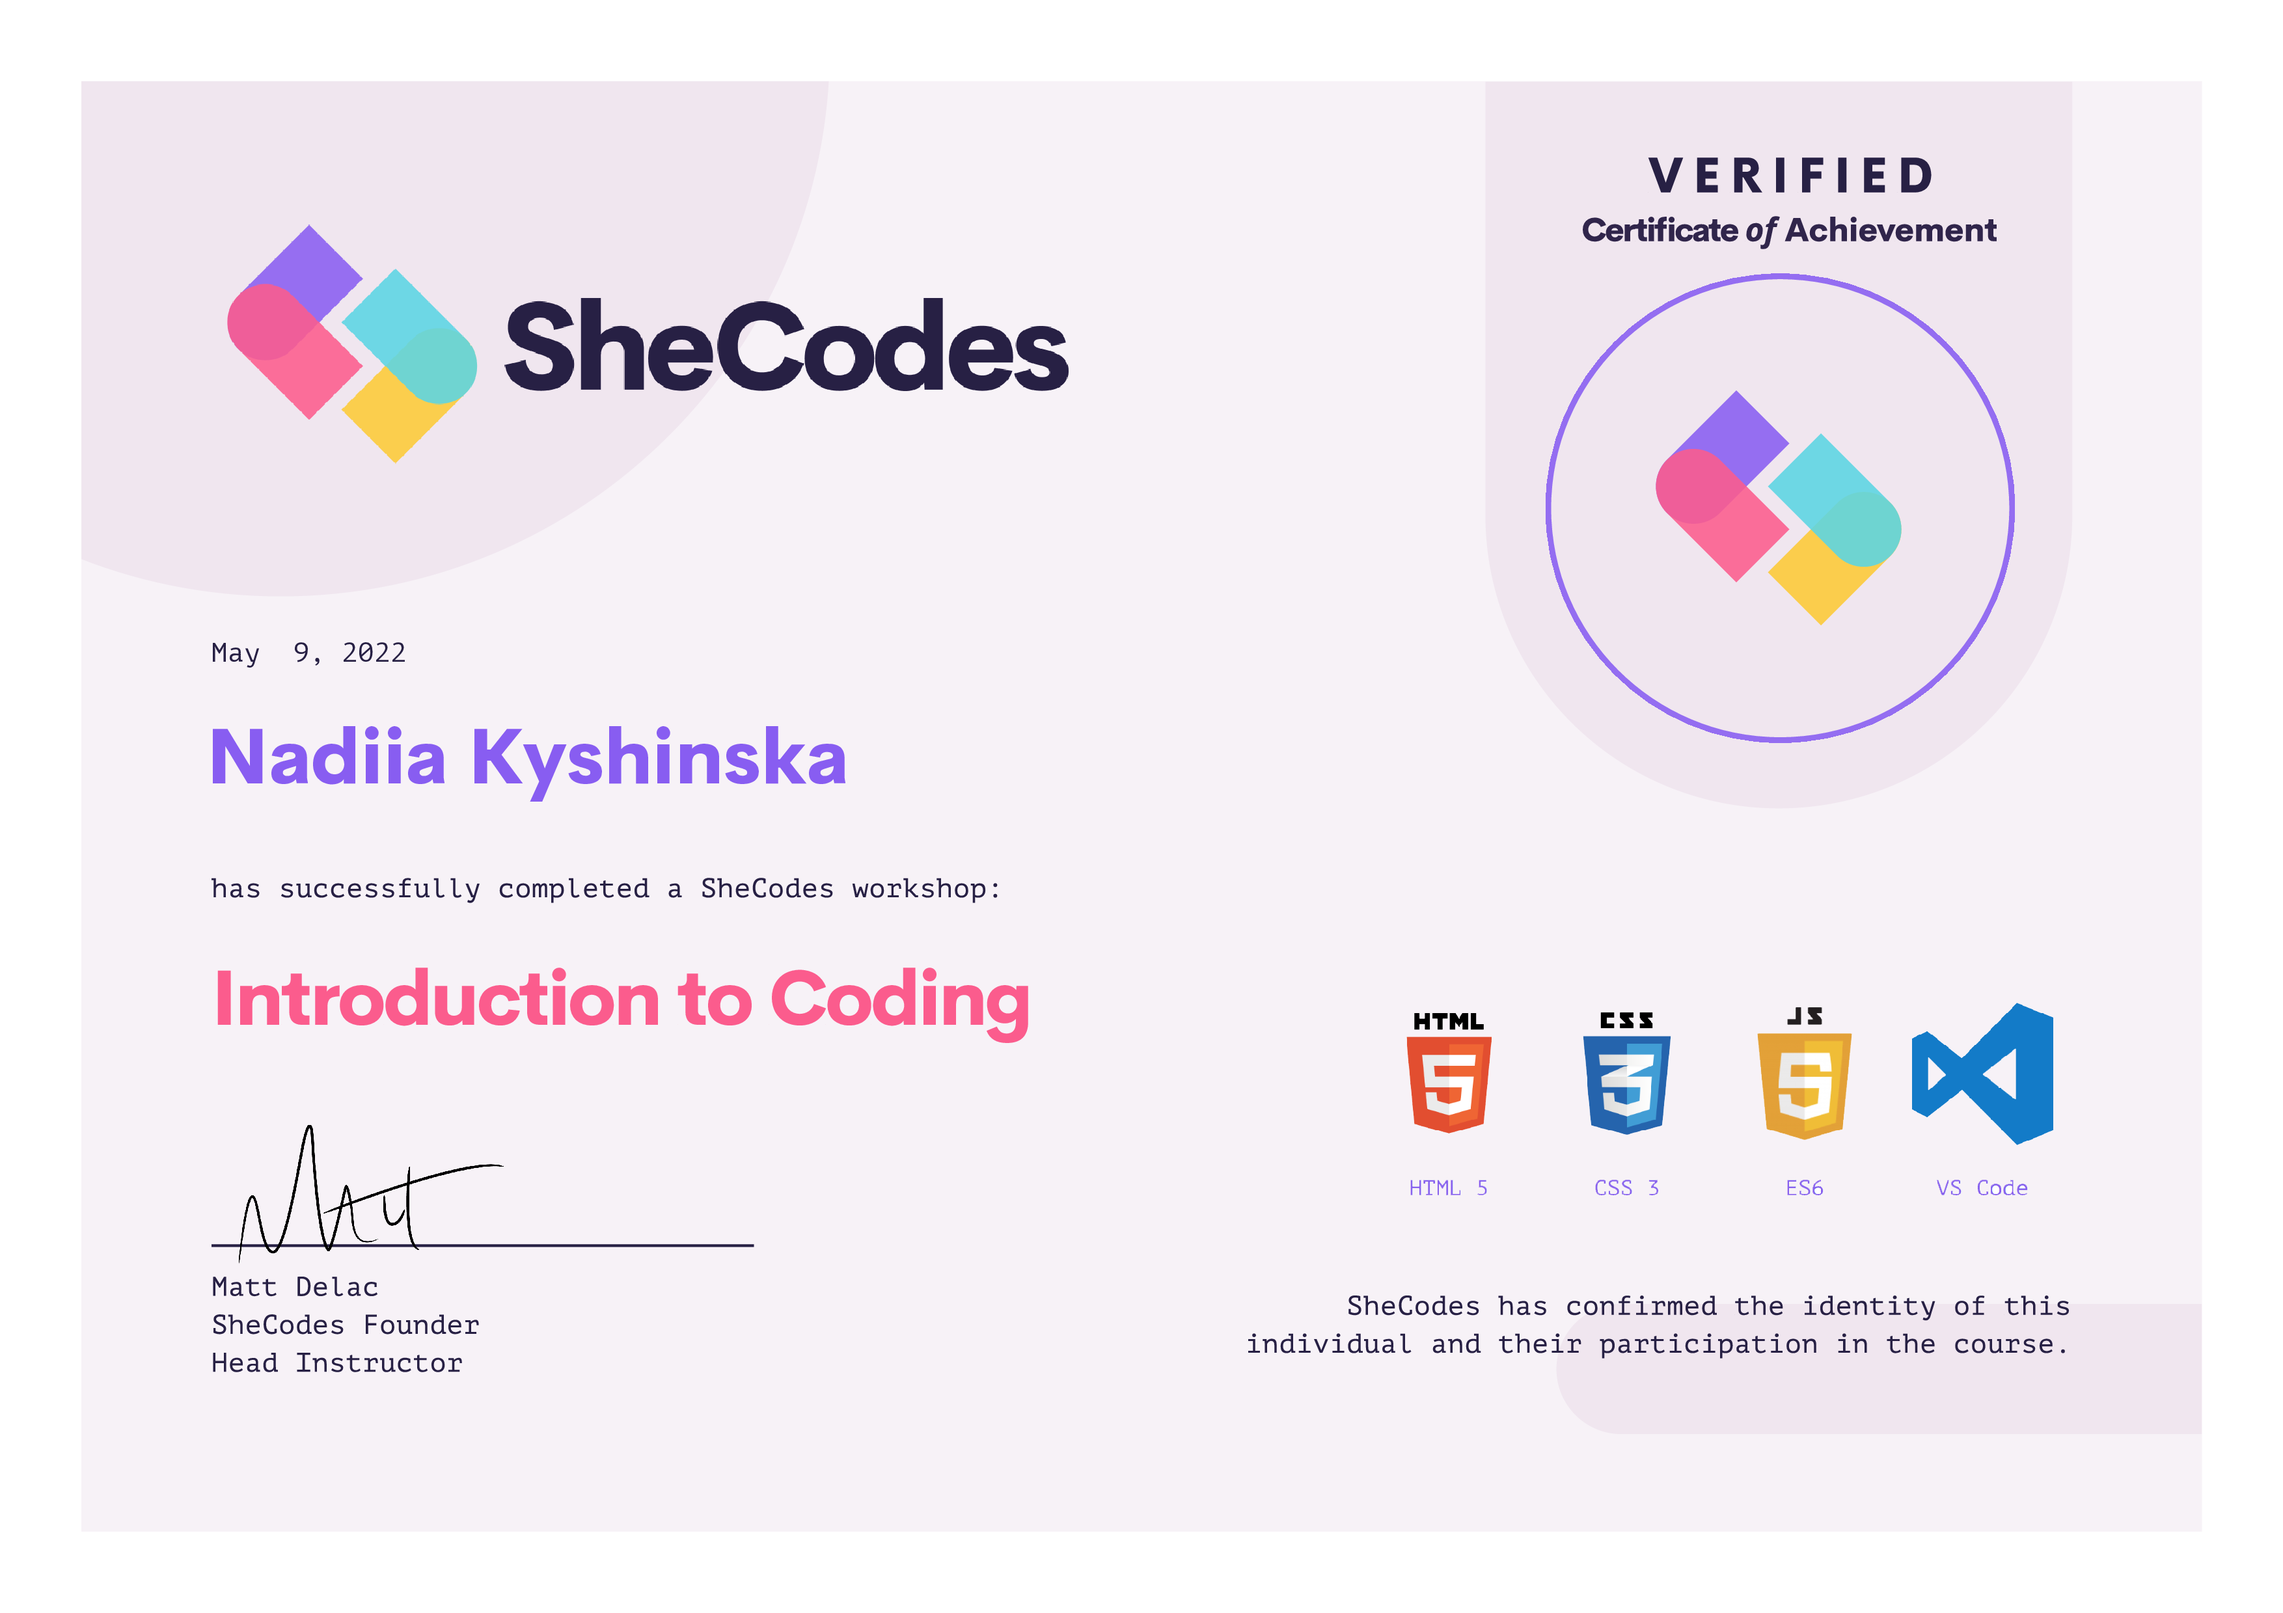
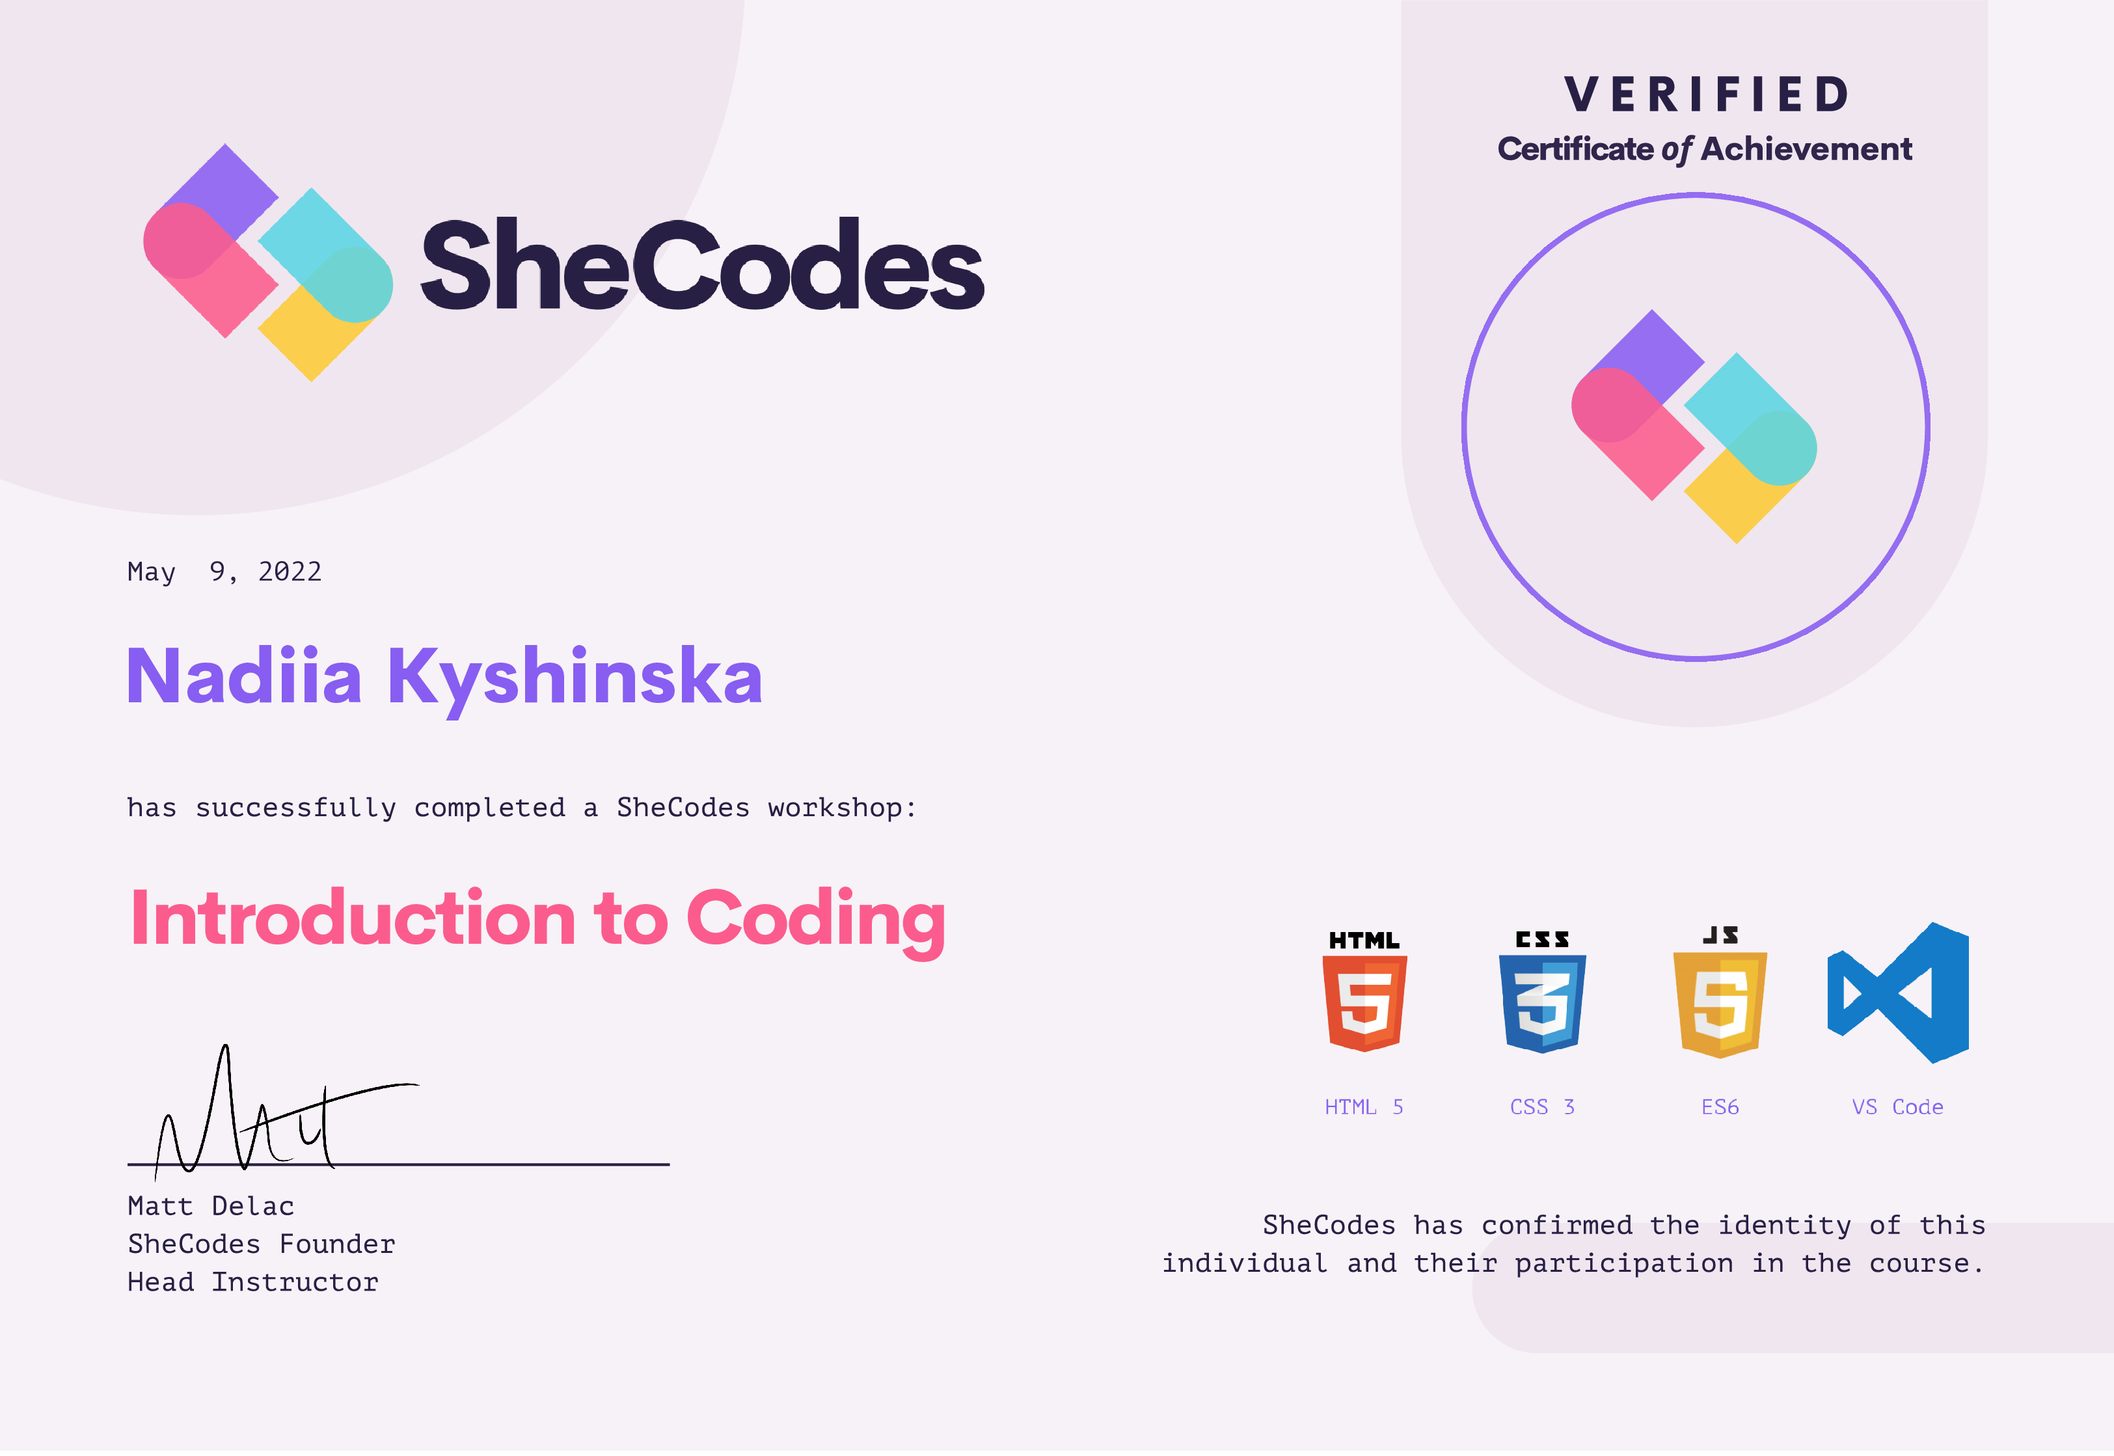
Changed the size of  certificate images, added a new certificate to about.html

diff --git a/about.html b/about.html
@@ -218,16 +218,23 @@
           <h2 class="text-center skills">My certificates</h2>
           <div class="line mb-5"></div>
           <div class="row d-flex justify-content-between">
-            <div class="col-lg-6">
+            <div class="col-lg-4">
               <img
                 src="/images/certificate1.png"
                 alt="Certificate Introduction to coding"
                 class="img-fluid mb-4 certificate-image"
               />
             </div>
-            <div class="col-lg-6">
+            <div class="col-lg-4">
               <img
                 src="/images/certificate2.png"
+                alt="Certificate Introduction to coding"
+                class="img-fluid mb-4 certificate-image"
+              />
+            </div>
+            <div class="col-lg-4">
+              <img
+                src="/images/certificate3.png"
                 alt="Certificate Introduction to coding"
                 class="img-fluid mb-4 certificate-image"
               />

diff --git a/src/style.css b/src/style.css
@@ -88,7 +88,7 @@ p {
   margin-top: 20px;
 }
 .content h1 {
-  font-size: 38px;
+  font-size: 46px;
   line-height: 1.2;
   font-weight: bold;
 }
